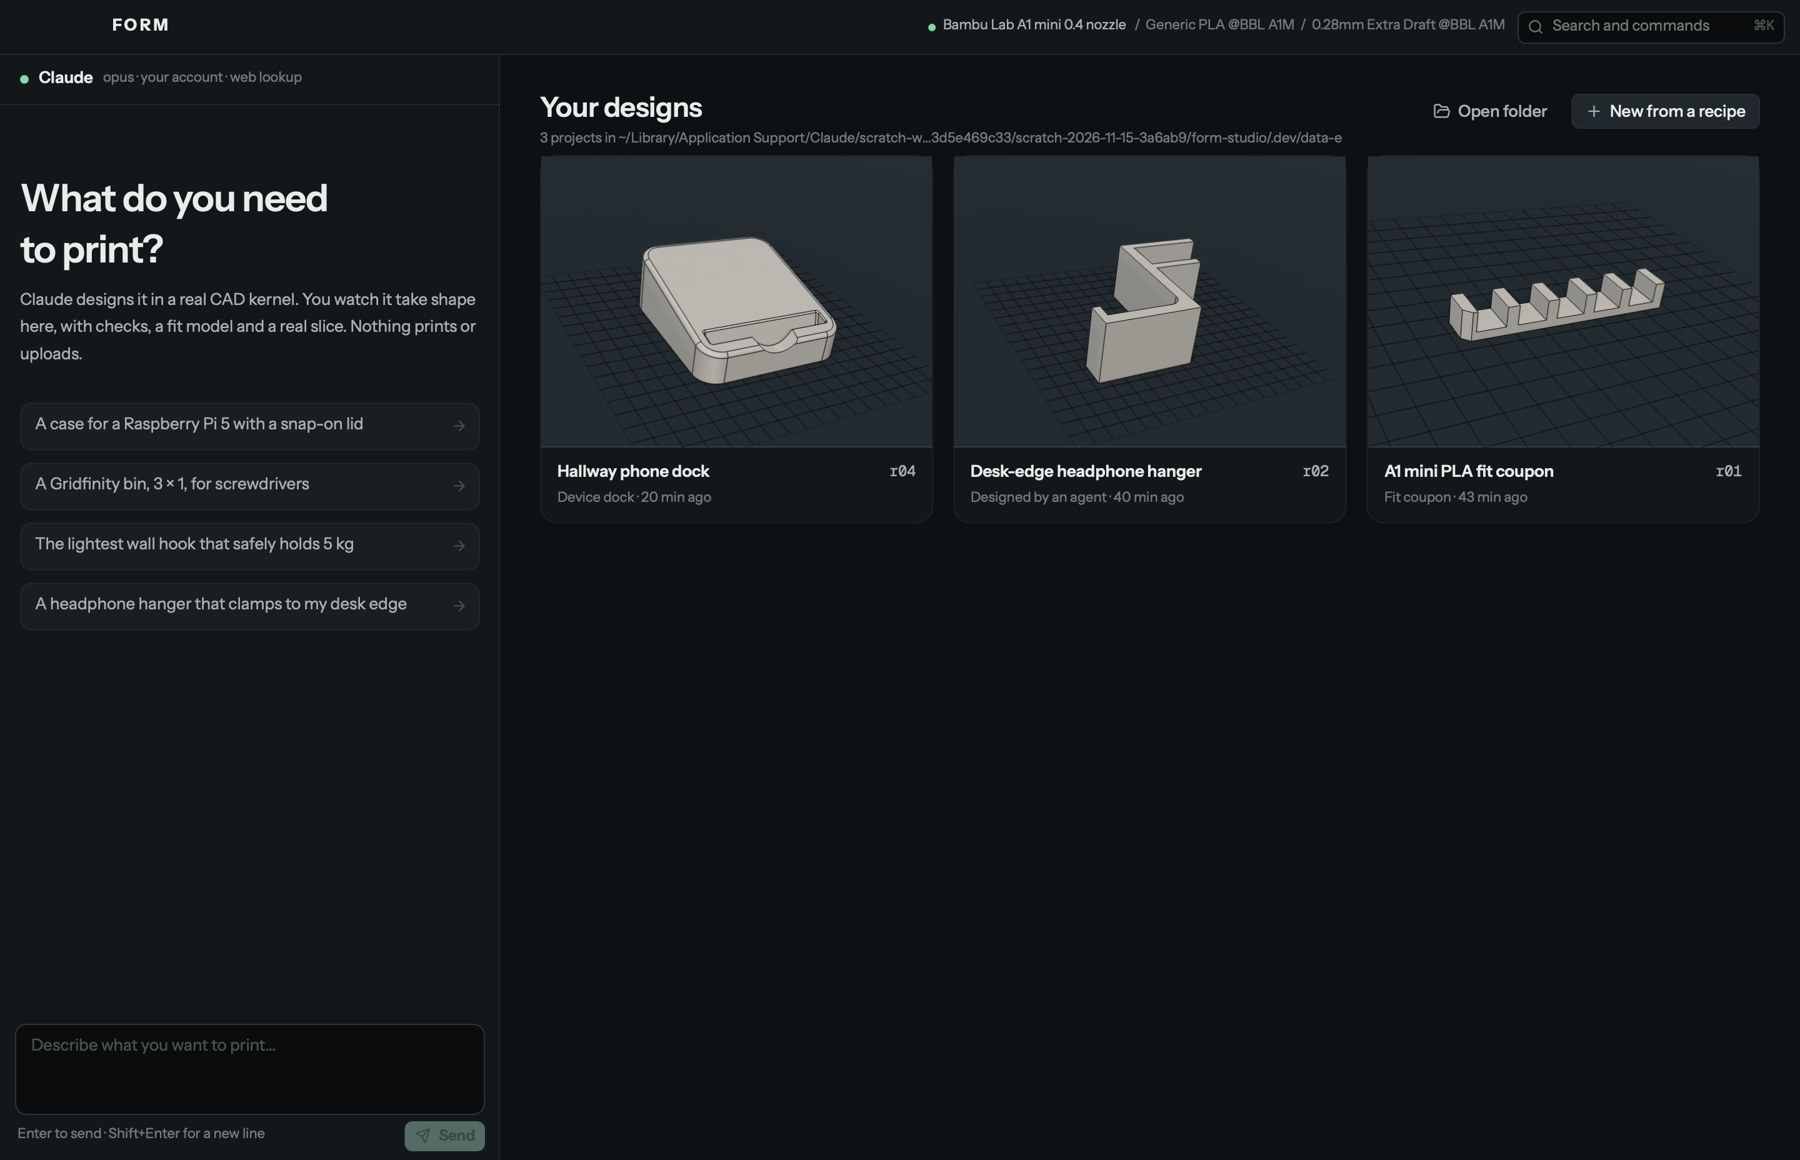
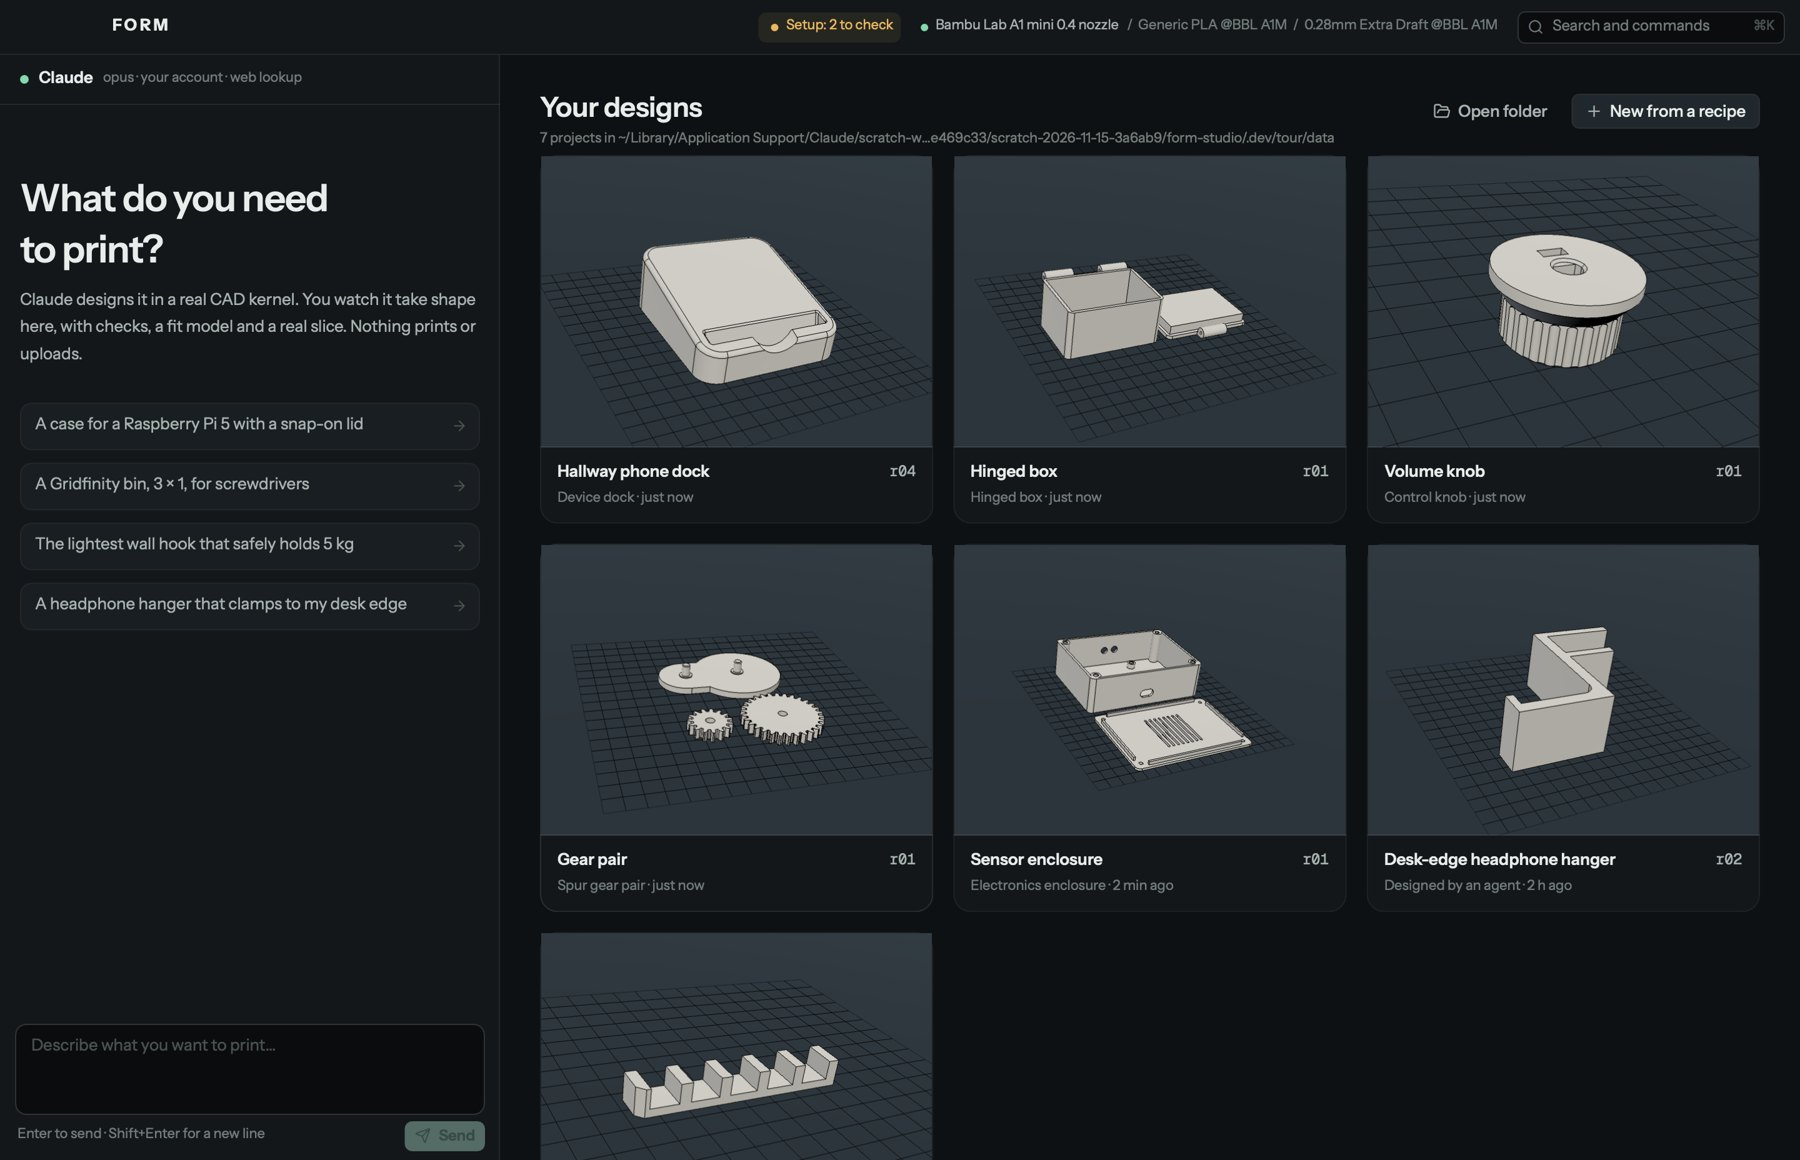
FORM 10: other slicers and CAD tools, Blender, standard parts, assemblies, first-run setup, skills plugin
Seven workstreams merged:
- slicers: OrcaSlicer, PrusaSlicer (+SuperSlicer, QIDISlicer), auto-detect, picker
- CAD bridges: STEP/STL reference parts, OpenSCAD designs, FreeCAD open/re-check/macro
- Blender: illustrative renders, Render sheet, 3D-Print Toolbox checks when installed
- form.parts and recipes: enclosure, gear pair, knob
- assemblies: assembled/exploded views, overlap, clearance, joint sweep, tool access,
  BOM, assembly steps, print report, measurement plan; hinged box recipe
- first-run welcome and setup in the app; update notices from GitHub releases
- Claude Code plugin with 13 skills; six brief templates; design review on demand

Thumbnails use a lighter viewport so many fit on Home. 189 tests pass.
OrcaSlicer, PrusaSlicer and FreeCAD were tested against fixtures, not real installs.

diff --git a/form/app/qml/Form/Viewport.qml b/form/app/qml/Form/Viewport.qml
@@ -17,6 +17,7 @@ Item {
     property bool showDims: true
     property bool interactive: true
     property bool spin: false                // slow turntable (home screen)
+    property bool lite: false                // thumbnails: no shadow map, no AO, lighter MSAA (many on screen at once)
     property real plateSize: 180
     property var bounds: ({ lo: Qt.vector3d(-40, -40, 0), hi: Qt.vector3d(40, 40, 40) })   // on the plate
     property vector3d shift: Qt.vector3d(0, 0, 0)
@@ -165,8 +166,8 @@ Item {
         camera: cam
         environment: SceneEnvironment {
             clearColor: Theme.plate; backgroundMode: SceneEnvironment.Color
-            antialiasingMode: SceneEnvironment.MSAA; antialiasingQuality: SceneEnvironment.VeryHigh
-            aoEnabled: true; aoStrength: 55; aoDistance: 6; aoSoftness: 30; aoSampleRate: 3
+            antialiasingMode: SceneEnvironment.MSAA; antialiasingQuality: vp.lite ? SceneEnvironment.Medium : SceneEnvironment.VeryHigh
+            aoEnabled: !vp.lite; aoStrength: 55; aoDistance: 6; aoSoftness: 30; aoSampleRate: 3
             tonemapMode: SceneEnvironment.TonemapModeFilmic
         }
         PerspectiveCamera {
@@ -181,7 +182,7 @@ Item {
             rotation: Quaternion.lookAt(vp.scene(zpos), vp.scene(vp.target))
         }
         DirectionalLight { eulerRotation: Qt.vector3d(-52, -32, 0); brightness: 2.1; color: "#ffffff"
-            castsShadow: true; shadowFactor: 85; shadowMapQuality: Light.ShadowMapQualityVeryHigh; softShadowQuality: Light.PCF32; pcfFactor: 5; shadowMapFar: 1400; csmNumSplits: 1 }
+            castsShadow: !vp.lite; shadowFactor: 85; shadowMapQuality: Light.ShadowMapQualityVeryHigh; softShadowQuality: Light.PCF32; pcfFactor: 5; shadowMapFar: 1400; csmNumSplits: 1 }
         DirectionalLight { eulerRotation: Qt.vector3d(-18, 118, 0); brightness: 0.7; color: "#fff1e0" }
         DirectionalLight { eulerRotation: Qt.vector3d(40, -150, 0); brightness: 0.35; color: "#cfe0ff" }
         DirectionalLight { eulerRotation: Qt.vector3d(-90, 0, 0); brightness: 0.25 }

diff --git a/form/app/qml/Form/Alternatives.qml b/form/app/qml/Form/Alternatives.qml
@@ -109,7 +109,7 @@ Column {
                         Item { width: 1; height: 6 }
                         Rectangle { width: parent.width; height: 132; radius: Theme.rSm; color: Theme.plate; clip: true
                             Loader { anchors.fill: parent; active: !!card.c.ok
-                                sourceComponent: Viewport { id: vp; selected: "-"; interactive: false; showDims: false; showCompanions: false
+                                sourceComponent: Viewport { id: vp; selected: "-"; lite: true; interactive: false; showDims: false; showCompanions: false
                                     Component.onCompleted: {
                                         setModel({ mesh: [{ feature: "", positions: card.c.mesh.positions, indices: card.c.mesh.indices }], bbox: card.c.bbox, edges: "", companions: [] })
                                         setView("iso", false)

diff --git a/form/app/qml/Form/MiniView.qml b/form/app/qml/Form/MiniView.qml
@@ -16,6 +16,6 @@ Item {
             vp.setModel(v); vp.setView("iso", false); vp.dist *= 0.82; mv.loaded = true
         }, function () {})
     }
-    Viewport { id: vp; anchors.fill: parent; interactive: false; showDims: false; showCompanions: false; spin: mv.turning
+    Viewport { id: vp; anchors.fill: parent; lite: true; interactive: false; showDims: false; showCompanions: false; spin: mv.turning
         opacity: mv.loaded ? 1 : 0; Behavior on opacity { NumberAnimation { duration: 400 } } }
 }

diff --git a/form/__init__.py b/form/__init__.py
@@ -4,4 +4,4 @@ One geometry authority (build123d / OCCT), one project state, and a
 content-hashed artifact graph. Nothing here calls a model or a printer
 unless the user asks for it.
 """
-__version__ = "9.0.0"
+__version__ = "10.0.0"

diff --git a/README.md b/README.md
@@ -6,7 +6,7 @@
   <a href="https://github.com/kaizensx/form-studio/actions"><img alt="CI" src="https://github.com/kaizensx/form-studio/actions/workflows/ci.yml/badge.svg"></a>
   <img alt="MIT" src="https://img.shields.io/badge/license-MIT-1c1b19">
   <img alt="Python 3.12" src="https://img.shields.io/badge/python-3.12-1c1b19">
-  <img alt="MCP" src="https://img.shields.io/badge/MCP-27%20tools-e24d26">
+  <img alt="MCP" src="https://img.shields.io/badge/MCP-31%20tools-e24d26">
   <img alt="CAD" src="https://img.shields.io/badge/CAD-build123d%20%2F%20OpenCascade-1c1b19">
 </p>
 
@@ -53,7 +53,51 @@ What is in the app:
 - **It follows any agent.** Use FORM from Claude Code or Codex and the open app follows along: drafts, views, commits.
 - **No browser.** The interface is Qt Quick, drawn on the GPU, in the same process as the CAD engine.
 
-Get it from the [Desktop app workflow](https://github.com/kaizensx/form-studio/actions/workflows/app.yml) (bundles for every platform, not yet signed), or run `form app` after installing with the `app` extra. Details: [docs/APP.md](docs/APP.md).
+Get it from the [Desktop app workflow](https://github.com/kaizensx/form-studio/actions/workflows/app.yml) (bundles for every platform, not yet signed), or run `form app` after installing with the `all` extra. Details: [docs/APP.md](docs/APP.md).
+
+## Works with what you already use
+
+FORM drives existing software instead of replacing it. On first launch it shows what it found and sets up only what you tick.
+
+<table><tr>
+<td width="50%"><img src="docs/screenshots/app-welcome.jpg" alt="First run: what FORM found on this computer, and what it can set up"></td>
+<td width="50%"><img src="docs/screenshots/app-slicers.jpg" alt="Slicer picker: Bambu Studio in use, OrcaSlicer and PrusaSlicer detected or not"></td>
+</tr></table>
+
+| | What FORM does with it | Run for real here |
+|---|---|---|
+| **build123d / OpenCascade** | The CAD kernel: every solid, STEP, B-rep checks | yes |
+| **Bambu Studio** | Slices with your printer, filament and process presets | yes |
+| **OrcaSlicer, PrusaSlicer** (SuperSlicer, QIDISlicer) | Same, picked automatically or in the Slicer sheet | fixtures only |
+| **OpenSCAD** | Designs written in `.scad`; Customizer ranges become parameters | yes |
+| **Blender** | Illustrative renders; its 3D-Print Toolbox checks when installed | renders yes |
+| **FreeCAD** | Open the STEP, an optional re-import check, a macro with every parameter | fixtures only |
+| **STEP / STL from makers** | Imported as reference parts to design around | yes |
+| **Claude Code, Codex, Gemini CLI, Cursor** | Use FORM's 31 MCP tools; the app follows along live | Claude Code, Codex |
+
+<table><tr>
+<td width="50%"><img src="docs/screenshots/app-reference-part.jpg" alt="A board imported as a STEP file, drawn in blueprint inside the case being designed"></td>
+<td width="50%"><img src="docs/assets/render-dock-studio.jpg" alt="Blender render of the phone dock in matte blue PLA"></td>
+</tr><tr>
+<td><sub>A board imported as STEP. The case is designed around it.</sub></td>
+<td><sub>Rendered in Blender from the real export. An illustration, not a photo of a print.</sub></td>
+</tr></table>
+
+## Real hardware, real assemblies
+
+Designs use **`form.parts`**: screw clearances (ISO 273), heat-set insert pockets, nut traps, magnet pockets, bearing seats, printable threads and gears, each with its published dimension and source. Parts that go together are checked **assembled**: overlap, the smallest gap, each hinge or slide swept through its range, and screwdriver access. A release writes the bill of materials, assembly steps with exploded images, a print report and a measurement plan.
+
+<table><tr>
+<td width="50%"><img src="docs/screenshots/app-assembly.jpg" alt="Hinged box assembled, with the hinge slider"></td>
+<td width="50%"><img src="docs/screenshots/app-home.jpg" alt="Home: enclosure, gear pair, knob, hinged box, dock, hanger and coupon as live 3D cards"></td>
+</tr></table>
+
+## Expertise, not just tools
+
+- **A Claude Code plugin** with 13 skills (intake, parametric design, FDM engineering, fit calibration, hardware, assemblies, industrial design, design review, release, print feedback…) and the MCP server: `/plugin marketplace add kaizensx/form-studio`, then `/plugin install form@form-studio`.
+- **Start from a brief:** six templates (remote holder, desk accessory, organizer, bathroom mount, enclosure, car accessory) ask the questions that matter, then hand your answers to Claude.
+- **Design review on demand:** silhouette, relationships and details, scored with evidence, from the Release stage.
+- **Updates:** FORM tells you when a new release is on GitHub. It never downloads or installs anything by itself.
 
 <p align="center"><img src="docs/assets/pi5-case-by-claude.png" width="820" alt="Four views of the Raspberry Pi 5 case Claude designed in FORM"><br>
 <sub>A case Claude designed in FORM from the official drawing: 10 steps, $1.04. Base and lid print side by side. The answer lists which numbers came from the drawing and which are estimates to check.</sub></p>
@@ -91,7 +135,7 @@ Restart your agent, then ask it for a part.
 To add the desktop app to this install:
 
 ```bash
-uv tool install --force --python 3.12 "form-studio[app] @ git+https://github.com/kaizensx/form-studio"
+uv tool install --force --python 3.12 "form-studio[all] @ git+https://github.com/kaizensx/form-studio"
 ```
 
 ```bash
@@ -246,12 +290,12 @@ While it's open, it follows what agents change, and labels each revision with th
 
 The engine is tested on macOS (Apple Silicon, full pipeline with slicing) and Linux (Ubuntu in CI: all tests, no slicer). The desktop app was built, packaged and run on macOS (Apple Silicon). The Windows, Linux and Intel macOS app bundles are built by CI and have not been run by a person yet; please report what you find.
 
-Wanted next:
+Not verified yet, and wanted next:
 
-- Orca and Prusa slicer adapters
-- more recipes: enclosures, brackets, cable management, organisers
-- section views in renders
-- photo-to-dimensions
+- OrcaSlicer, PrusaSlicer and FreeCAD runs on real installations (the adapters are tested against fixtures)
+- signed and notarized app bundles, and in-app updates beyond a notice
+- printer monitoring (left off on purpose until it can be read-only and local)
+- scan-to-CAD and photo-to-dimensions
 - a recipe gallery site
 
 See [CONTRIBUTING.md](CONTRIBUTING.md).

diff --git a/docs/MCP.md b/docs/MCP.md
@@ -60,6 +60,9 @@ pages: "1", "1-3", "2,5" (at most 4). Use this for official dimensions of boards
 Create a project from your own design code (see design_guide): one Python file defining one Recipe subclass,
 built with build123d. FORM builds it, and with run=True exports, checks and slices it. Load or build errors come
 back with the line and a hint; fix and call again. Then render(view="sheet") and look at it.
+language="openscad": source is an OpenSCAD file; parameters come from Customizer comments (`w = 40; // [20:1:120]`).
+OpenSCAD output is a mesh: no STEP, no B-rep checks (reported as not available, never faked).
+references: absolute paths of STEP/STL parts to import first, so a Python design can use self.reference("name.step").
 
 | Argument | Type | Required |
 |---|---|---|
@@ -68,12 +71,15 @@ back with the line and a hint; fix and call again. Then render(view="sheet") and
 | `brief` | string |  |
 | `values` | object | null |  |
 | `run` | boolean |  |
+| `language` | string |  |
+| `references` | array | null |  |
 
 ## `update_design`
 
 Replace a design's code as a new revision (history keeps every version). Existing parameter values carry over;
 changing a default does not change a saved value, so pass values={...} to change them. New parameters start at
-their defaults. Use preview_change/commit_change instead when only values change.
+their defaults. Use preview_change/commit_change instead when only values change. language defaults to the
+project's current one ("python" or "openscad").
 
 | Argument | Type | Required |
 |---|---|---|
@@ -83,6 +89,7 @@ their defaults. Use preview_change/commit_change instead when only values change
 | `values` | object | null |  |
 | `expect_head` | integer | null |  |
 | `run` | boolean |  |
+| `language` | string | null |  |
 
 ## `get_design_source`  · read-only
 
@@ -95,8 +102,8 @@ The exact code a revision was built from (built-in recipes return their recipe f
 
 ## `create_project`
 
-Create a project from a built-in recipe (dock, gridfinity, hook, planter, coupon). For anything else, write a
-design: design_guide, then create_design. values override recipe defaults (all start as 'assumed').
+Create a project from a built-in recipe (dock, gridfinity, hook, planter, coupon, enclosure, gear_pair, knob).
+For anything else, write a design: design_guide, then create_design. values override recipe defaults (all start as 'assumed').
 With run=True the solid, exports and checks are built (and sliced if a slicer is available).
 
 | Argument | Type | Required |
@@ -302,7 +309,8 @@ Re-hash every file of a release against its manifest and say whether it still ma
 ## `open_in`
 
 Open a current output in the user's own software: what = step | stl | 3mf | gcode | folder.
-app overrides studio.toml [apps] (e.g. "BambuStudio", "FreeCAD"). Uses the system's open command; nothing is uploaded.
+app overrides studio.toml [apps] (e.g. "BambuStudio"); app="freecad" finds FreeCAD. Uses the system's open command;
+nothing is uploaded.
 
 | Argument | Type | Required |
 |---|---|---|
@@ -318,6 +326,56 @@ The bench is the local web page where the user inspects the 3D model, compares r
 |---|---|---|
 | `project` | string | null |  |
 | `open_browser` | boolean |  |
+
+## `brief_presets`  · read-only
+
+Brief templates for common kinds of part (remote holder, desk accessory, organizer, bathroom mount, enclosure,
+car accessory): the questions worth asking, environment defaults (temperature, humidity, UV, load), a material to
+start from and the checks to plan for. Defaults are assumptions to confirm with the user, never measurements.
+
+| Argument | Type | Required |
+|---|---|---|
+| `preset` | string |  |
+
+## `import_reference`
+
+Import an existing part (STEP or STL, e.g. a Raspberry Pi 5 STEP from the manufacturer) into a project's
+references. FORM copies it, measures it in the kernel (bounding box, volume: computed) and draws it in the 3D
+view as a blueprint companion, in its own coordinates. A Python design can then read it with
+self.reference("<name>") for clearance cuts. path: absolute local path. Re-importing a name replaces it.
+
+| Argument | Type | Required |
+|---|---|---|
+| `project` | string | yes |
+| `path` | string | yes |
+| `name` | string | null |  |
+
+## `freecad_macro`  · read-only
+
+Write a FreeCAD macro (.FCMacro) next to the current STEP export. Run it in FreeCAD to rebuild the part
+from the STEP (hash-checked) with a spreadsheet of FORM's parameters and their provenance. Not for mesh designs.
+
+| Argument | Type | Required |
+|---|---|---|
+| `project` | string | yes |
+
+## `render_photo`
+
+A realistic-looking render of the current revision's exported STL, made by Blender headless (if installed).
+preset: studio (soft box, light backdrop) | desk (wooden desk) | dark (graphite, rim light).
+material: matte (PLA) | petg (gloss) | silk (silk PLA). color: hex, e.g. "#3d6fb6".
+layer_lines draws faint lines at the slicer's layer height when a process preset is selected.
+fast=True uses EEVEE instead of Cycles. Cached per geometry and settings. This is an illustration with
+invented light and material, not a photo of a print: never present it as evidence of anything.
+
+| Argument | Type | Required |
+|---|---|---|
+| `project` | string | yes |
+| `preset` | string |  |
+| `material` | string |  |
+| `color` | string |  |
+| `fast` | boolean |  |
+| `layer_lines` | boolean |  |
 
 ## Prompt `design_part(goal)`
 

diff --git a/CHANGELOG.md b/CHANGELOG.md
@@ -1,5 +1,32 @@
 # Changelog
 
+## 10.0.0
+
+### Works with the tools you already have
+- **Slicers:** OrcaSlicer and PrusaSlicer (and SuperSlicer, QIDISlicer) join Bambu Studio. `[slicer].kind = "auto"` uses the first one installed; the Slicer sheet switches between them. Only Bambu Studio was run for real on the release machine; the others are tested against fixtures written from their source.
+- **Import a real part:** bring in a STEP or STL (a board, a device, a motor). It is drawn in blueprint around your design, and a design can cut clearance from it with `self.reference("pi5.step")`.
+- **OpenSCAD designs:** `create_design(..., language="openscad")`. Customizer range comments become FORM parameters. Mesh designs say clearly which checks and exports do not apply.
+- **FreeCAD:** open the STEP in FreeCAD, an optional re-import check when FreeCAD is installed, and a `.FCMacro` with every parameter in a spreadsheet. Not run against a real FreeCAD yet.
+- **Blender:** illustrative renders of the current revision (studio, desk, dark; matte PLA, PETG, silk), cached like every other artifact. Blender's 3D-Print Toolbox checks run when the add-on is installed.
+
+### Designs with real hardware
+- **`form.parts`:** screw clearances (ISO 273), heat-set insert pockets, nut traps, magnet pockets, bearing seats, printable threads and spur gears, each with its dimensions and their source.
+- **New recipes:** electronics enclosure, gear pair, control knob, hinged box.
+
+### Assemblies
+- **Assembled / Exploded / Print layout** in the viewport, with hinge and slide joints you can move.
+- **Checks from the solids:** overlap when assembled, the smallest gap, each joint swept at sampled positions, and screwdriver access. The check text says that sampled motion does not prove the motion is free between samples.
+- **Maker documents on release:** `BOM.csv`, `ASSEMBLY.md` (an exploded image per step), `PRINT_REPORT.md`, `MEASUREMENT_PLAN.md`, `MOTION_CHECKS.csv`.
+
+### The app sets itself up
+- **First-run welcome:** what FORM found on this computer, and what it can set up. Nothing is installed until you tick it and press Apply, and every command is shown first.
+- **Update notices:** FORM checks GitHub's latest release at most once a day and tells you when one exists. It never downloads or installs anything itself. Turn it off with `[updates] check = false`.
+
+### Expertise
+- **Claude Code plugin:** 13 skills (intake, parametric design, FDM engineering, fit calibration, hardware, assemblies, industrial design, design review, release and more) plus the MCP server, in `plugins/form`.
+- **Start from a brief:** six brief templates (remote holder, desk accessory, organizer, bathroom mount, enclosure, car accessory) with the questions worth answering; your answers go to Claude.
+- **Design review on demand** from the Release stage.
+
 ## 9.0.0
 
 ### A desktop app

diff --git a/docs/APP.md b/docs/APP.md
@@ -18,7 +18,7 @@ system from the workflow run (or from a release), unpack it and open FORM.
 **From Python.** If you already use FORM's CLI:
 
 ```bash
-uv tool install --force --python 3.12 "form-studio[app] @ git+https://github.com/kaizensx/form-studio"
+uv tool install --force --python 3.12 "form-studio[all] @ git+https://github.com/kaizensx/form-studio"
 ```
 
 ```bash
@@ -60,7 +60,7 @@ a fit yield *modelled*, and only you can approve a release, with a deliberate bu
 
 ```bash
 uv venv --python 3.12 .venv
-uv pip install --python .venv -e ".[app]" pyinstaller
+uv pip install --python .venv -e ".[all]" pyinstaller
 .venv/bin/python -m form.app            # run from source
 .venv/bin/pyinstaller packaging/form.spec --noconfirm
 ```
